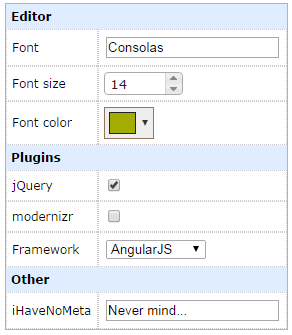
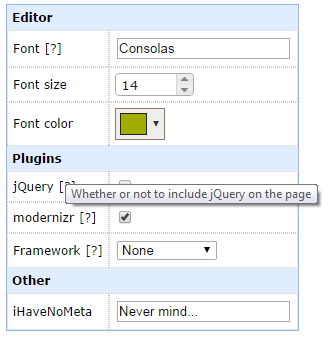
Add support to display property description as tooltip

diff --git a/example/index.html b/example/index.html
@@ -35,16 +35,16 @@
 		// This is the metadata object that describes the target object properties (optional)
 		var theMeta = {
 			// Since string is the default no nees to specify type
-			font: { group: 'Editor', name: 'Font'},
+			font: { group: 'Editor', name: 'Font', description: 'The font editor to use'},
 			// The "options" would be passed to jQueryUI as its options
 			fontSize: { group: 'Editor', name: 'Font size', type: 'number', options: { min: 0, max: 20, step: 2 }},
 			// The "options" would be passed to Spectrum as its options
 			fontColor: { group: 'Editor', name: 'Font color', type: 'color', options: { preferredFormat: 'hex' }},
 			// since typeof jQuery is boolean no need to specify type, also since "jQuery" is also the display text no need to specify name
-			jQuery: { group: 'Plugins' },
+			jQuery: { group: 'Plugins', description: 'Whether or not to include jQuery on the page' },
 			// We can specify type boolean if we want...
-			modernizr: {group: 'Plugins', type: 'boolean'},
-			framework: {name: 'Framework', group: 'Plugins', type: 'options', options: ['None', {text:'AngularJS', value: 'angular'}, {text:'Backbone.js', value: 'backbone'}]}
+			modernizr: {group: 'Plugins', type: 'boolean', description: 'Whether or not to include modernizr on the page'},
+			framework: {name: 'Framework', group: 'Plugins', type: 'options', options: ['None', {text:'AngularJS', value: 'angular'}, {text:'Backbone.js', value: 'backbone'}], description: 'Whether to include any additional framework'}
 		};
 
 		// Create the grid

diff --git a/jqPropertyGrid.js b/jqPropertyGrid.js
@@ -151,6 +151,10 @@
 			if (getValueFuncs) { getValueFuncs[name] = function() {return $('#'+elemId).val();}; }
 		}
 
+		if (typeof meta.description === 'string' && meta.description) {
+			displayName += '<span class="pgTooltip" title="' + meta.description + '">[?]</span>';
+		}
+
 		return '<tr class="pgRow"><td class="pgCell">' + displayName + '</td><td class="pgCell">' + valueHTML + '</td></tr>';
 	}
 

diff --git a/jqPropertyGrid.css b/jqPropertyGrid.css
@@ -25,3 +25,7 @@
     border: dotted 1px #ccc;
     padding: 5px;
 }
+
+.pgTooltip {
+    margin-left: 5px;
+}

diff --git a/README.md b/README.md
@@ -30,19 +30,19 @@ var theObj = {
   iHaveNoMeta: 'Never mind...'
 };
 
-// This is the metadata object that describes the target object properties (optional) 
+// This is the metadata object that describes the target object properties (optional)
 var theMeta = {
-  // Since string is the default no nees to specify type
-  font: { group: 'Editor', name: 'Font'},
-  // The "options" would be passed to jQueryUI as its options
-  fontSize: { group: 'Editor', name: 'Font size', type: 'number', options: { min: 0, max: 20, step: 2 }},
-  // The "options" would be passed to Spectrum as its options
-  fontColor: { group: 'Editor', name: 'Font color', type: 'color', options: { preferredFormat: 'hex' }},
-  // since typeof jQuery is boolean no need to specify type, also since "jQuery" is also the display text no need to specify name
-  jQuery: { group: 'Plugins' },
-  // We can specify type boolean if we want...
-  modernizr: {group: 'Plugins', type: 'boolean'},
-  framework: {name: 'Framework', group: 'Plugins', type: 'options', options: ['None', {text:'AngularJS', value: 'angular'}, {text:'Backbone.js', value: 'backbone'}]}
+    // Since string is the default no nees to specify type
+    font: { group: 'Editor', name: 'Font', description: 'The font editor to use'},
+    // The "options" would be passed to jQueryUI as its options
+    fontSize: { group: 'Editor', name: 'Font size', type: 'number', options: { min: 0, max: 20, step: 2 }},
+    // The "options" would be passed to Spectrum as its options
+    fontColor: { group: 'Editor', name: 'Font color', type: 'color', options: { preferredFormat: 'hex' }},
+    // since typeof jQuery is boolean no need to specify type, also since "jQuery" is also the display text no need to specify name
+    jQuery: { group: 'Plugins', description: 'Whether or not to include jQuery on the page' },
+    // We can specify type boolean if we want...
+    modernizr: {group: 'Plugins', type: 'boolean', description: 'Whether or not to include modernizr on the page'},
+    framework: {name: 'Framework', group: 'Plugins', type: 'options', options: ['None', {text:'AngularJS', value: 'angular'}, {text:'Backbone.js', value: 'backbone'}], description: 'Whether to include any additional framework'}
 };
 
 // Create the grid
@@ -70,6 +70,7 @@ Each property in the metadata object could have the following:
     * If the type is `number` then the options would be passed as the jQueryUI Spinner options
     * If the type is `color` then the options would be passed as the Spectrum options
     * If the type is `options` then options should be an array with the drop-down values, if an element in the array is  `string` it will be used both as the value and text of the `option` element. If an element in the array is `object` then it should contains a `text` and `value` properties which would be used on the `option` element
+* description - A description of the property, will be used as tooltip on an hint element (a span with text "[?]")
 
 ### Live example
 See this CodePen page: http://codepen.io/ValYouW/pen/zInBg
